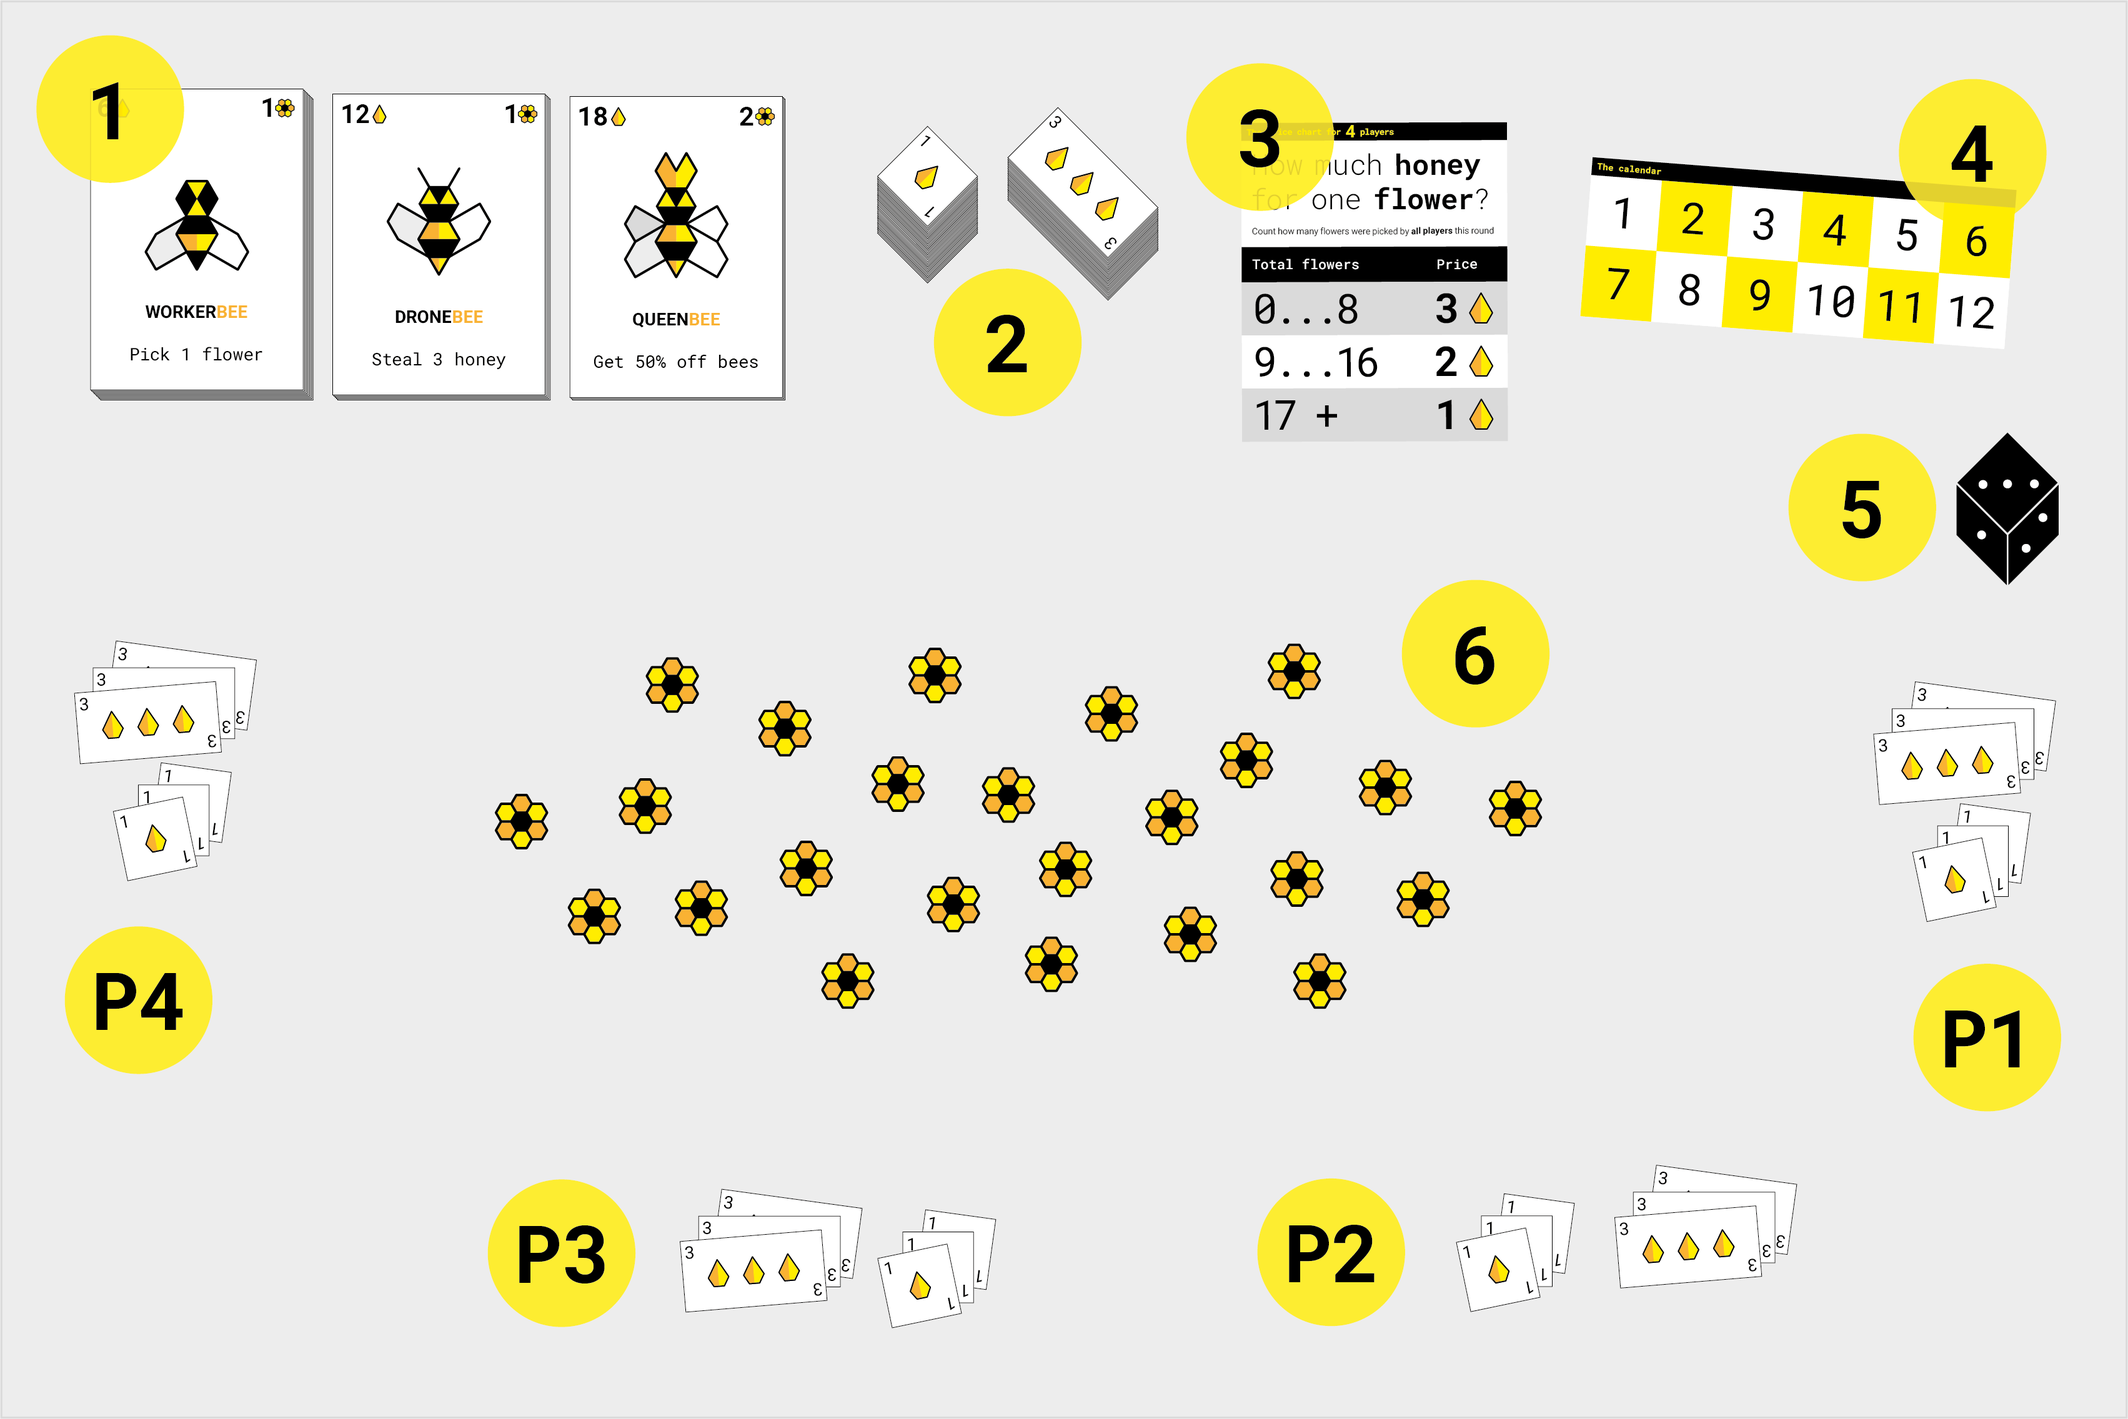
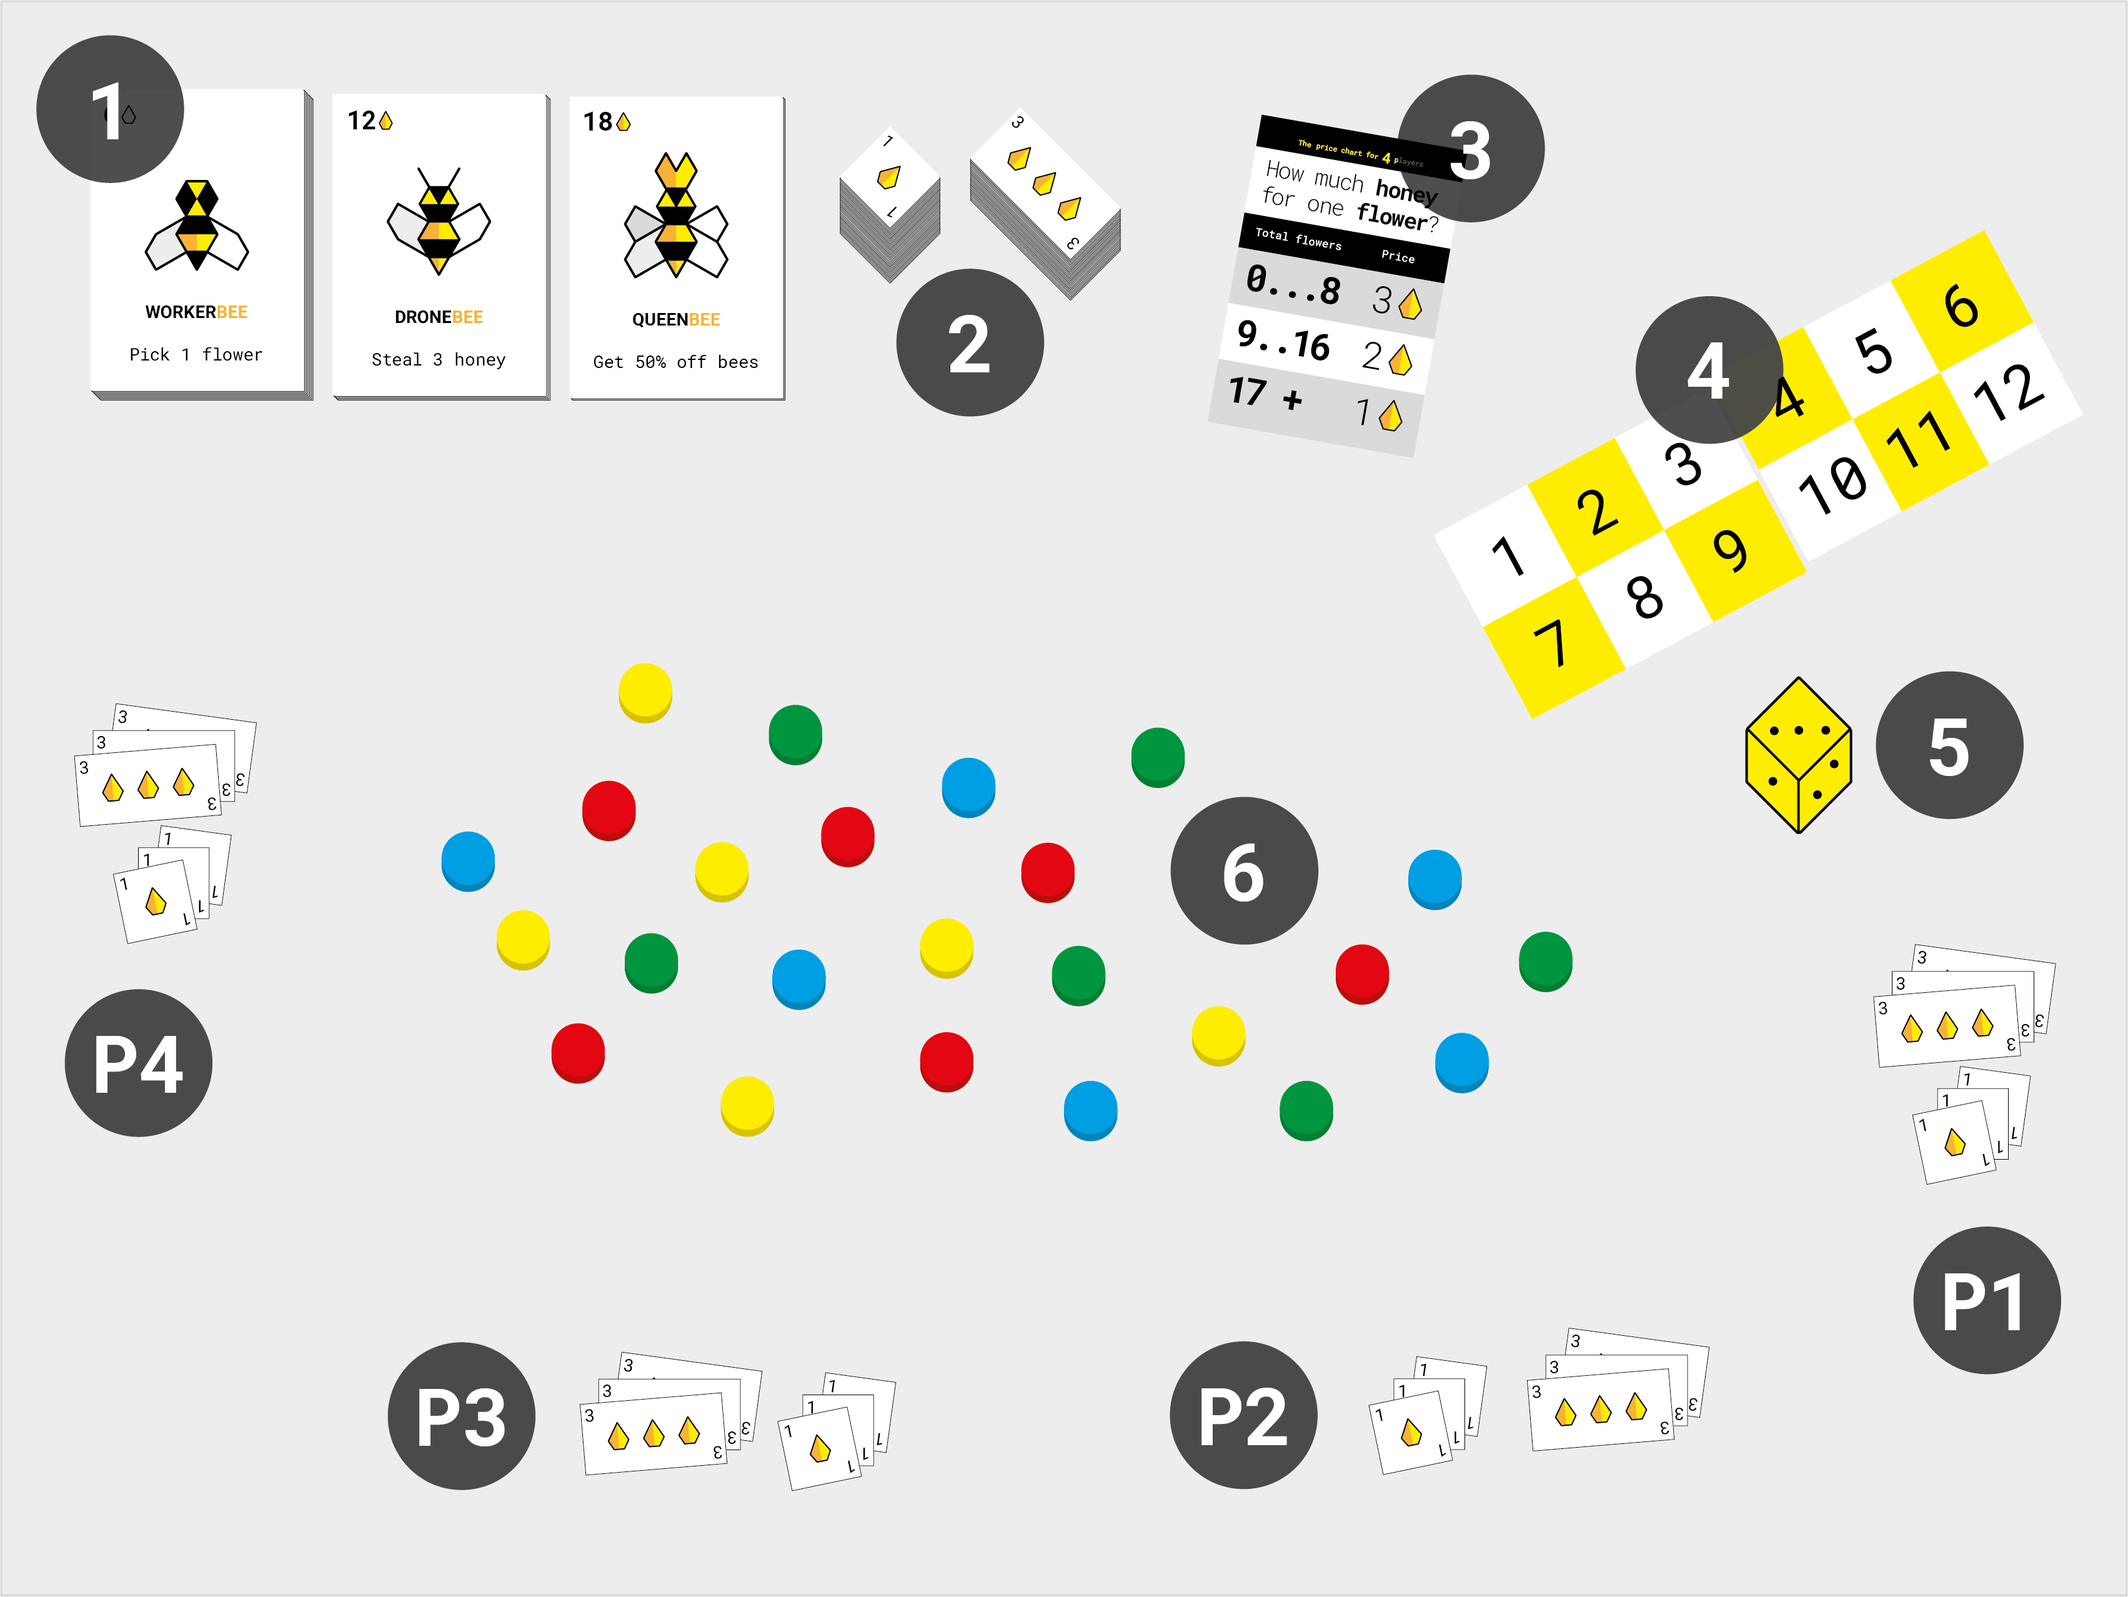
New rulebook

diff --git a/README.md b/README.md
@@ -2,167 +2,152 @@
 
 ![](assets/bees.png)
 
-Beesness is a competitive / cooperative game for 2+ players that simulates a *capitalist market economy*. 
+**Beesness** is a competitive / cooperative game for 2+ players that simulates a *capitalist market economy*. 
 
-As a player you control a **colony of bees**. These peculiar bees have learned how to do *beesness* from us humans: they can *trade* flowers for honey and honey for other bees, they can *extort* honey from other colonies and even employ *cheap labour*. **To win** you must end the year with **more honey** than any other colony. This is the competitive part.
+As a player you control a *beesness*. These peculiar bees have learned how to do business from us humans: they can *trade* flowers for honey and honey for other bees, they can *extort* honey from other beesnesses and even employ *cheap labour*. **To win** you must end the year with **more honey** than any other beesness. This is the **competitive** part.
 
-Every colony operates in the **garden of Commons**. If all flowers are taken from the garden, at any point during the game, **everybody loses** immediately. To avoid this tragedy, you can cooperate with the other colonies to replant flowers.
+Every beesness operates in the **garden of Commons**. If all flowers are taken from the garden, at any point during the game, **everybody loses** immediately. To avoid this tragedy, you can **cooperate** with the other beesnesses to replant flowers.
 
 Will you manage to maximise your honey profits while avoiding *drone strikes* and a collective *beesaster*?
 
 
-## Ingredients
+# How to *beegin* (setup)
 
-* 2+ [human players](#how-many-players)
-* A [table](#the-garden-of-commons) 
-* Flower tokens (roughly 10 for each player)
-* [Honey tokens](#the-honey-pot-bank) 
-* [Bee cards](#meet-the-bees)
-* Flower - honey [price chart](#2-sell-your-flowers-for-honey)
-* Turns tracker (aka the [calendar](#the-calendar)) 
-* A 6-sided die 
+![](assets/setup.png)
 
-### How many players? 
+1. Place the **beesness cards** `1` face up, stacked by bee type.
+2. Put all the **honey** `2` in one pot (or piles). That will be the **bank**. 
 
-From **2** to **infinity**. 
+	Each player starts with **12 honey** plus a **roll of the die** `5`. This could bring your starting capital to 18 honey! :game_die:
+3. Pick the flowers-honey **price chart** `3` corresponding to the number of players and put it next to the honey-pot bank. 
+4. Place the round tracker cards `4` (the **calendar**) next to the price chart and put the die over the first month (1).
+5. *Plant* **6 flower tokens** `6` for each player on the table. It doesn't matter which colour flowers are.
 
-### The garden of Commons
-
-Plant **flowers** in the garden. To start with, place 6 flower tokens for each player on the table.
-
-Players	| Flowers
------- 	| -------
-2       | 12
-3       | 18
-4       | 24
-5       | 30
-6       | 36
-etc.    | The formula: 6 × players
-
-### The honey pot bank 
- 
-Put all the **honey** in one pot (or pile). That will be the **bank**. 
-
-### The colony
-
-Each player starts with an initial capital of **12 honey**. On top of that 12, each player **rolls the die** and gets as much honey as the die says. This could bring your initial capital to 18 honey! :game_die:
-
-### Meet the bees
-
-Place the **bee cards** face up, stacked by bee type.
-
-Type | Price <sup>honey	| Skills
----- | ----------------	| ------
-**Worker** bee <br><br>![](assets/worker-bee.png) | **6** | It can **take 1 flower per month** from the garden. At the end of each round, you trade flowers for honey. 
-**Drone** bee <br><br>![](assets/drone-bee.png) | **12** | It can **take 3 honey per month** from other colonies (in different combinations, eg: 3 honey from 1 colony, 1 honey from 3 different colonies, 2 from 1 colony and 1 from another)
-**Queen** bee <br><br>![](assets/queen.png) | **18** | It can **privatise 1 flower per month**. Privatising means you can keep flowers (instead of trading them) and still get paid. 
-
-### The calendar 
-
-Put a **month marker** (any token) on the first month of the year.
-
-![](assets/calendar.png)
+	> For example: if there are 4 players, plant 24 flowers. 
 
 
-## Method
+# How to *beehave* (gameplay)
 
-### Who starts the round?
+Players take turns, going **clockwise** :arrows_clockwise: around the table.
+
+## Who starts the round?
 
 There are two ways to decide this:
 
-1. By **bidding honey**, aka *beedding*. The highest *beedder* pays the bank and gets the right to execute their *beesness plan* before all other players.
+1. By **bidding honey**, a.k.a. *beedding*. The highest *beedder* pays the bank and gets the right to execute their *beesness plan* before all other players.
 	
 	If you wish, you can *beed* to start at the beginning of every round.
 2. If nobody wants to *beed*, then you will **rotate the starting player**. If you started this round, the player to your left will start the next.
 
-Play proceeds **clockwise**.
+## On your turn
 
-### There are three steps to every round
+At the beginning of your turn you can **buy beesness cards** to grow your beesness. Then you can use your beesness cards to **execute your beesness plan**.
 
-1. One player at a time, you [execute your *beesness plan*](#1-execute-your-beesness-plan)
-2. All together, you [sell your flowers for honey](#2-sell-your-flowers-for-honey)
-3. All together, you [replant the garden](#3-replant-the-garden)
+1. **Buy beesness cards**! 
 
-### 1. Execute your beesness plan!
+	If you want and can afford their price, you *can* buy one or more beesness cards. 
+	
+	Pay the bank the price for each card in honey and add the card(s) to your beesness. 
+	
+	Bear in mind that you are not allowed to make your bees *redundant*, i.e. sell them back to the bank. You can trade beesness cards with other players though. See if anyone is interested in your bees and negotiate a price.
+2. **Execute your beesness plan**!  
 
-#### Invest
+	Every beesness card has a skill. Use as many of your cards as you like. 
 
-If you have honey, you can decide to invest some (or all) of it to **grow your colony**. 
+	You can deploy newly acquired bees immediately, there's no need to wait for the next round.
 
-You can buy as many bee cards as you can afford. 
+<!--
+	> For example <br><br>
+	> If you have 2 ***workers***, you can pick 2 flowers from the garden. <br><br>
+	> If you have 1 ***drone***, you can steal up to 3 honey from other beesnesses (in any combination, either 3 from the same beesness, or 1 from 3 different beesnesses, 2 + 1, etc.). <br><br>
+	> If you want to deploy ***drones*** against another player but they have less honey than you could take, you can force them to use one or more of their beesnesses cards as *payment* (eg: put a *worker bee* back to the stack, get 6 honey from the bank and pay you). <br><br>
+	> If you use **drones** to pillage another beesness, you have to wait for your next turn to invest the loot. <br><br>	
+	> If you have a **queen**, you can buy other beesness cards at half their normal price. 
+-->
 
-Pay the bank and add the card(s) to your colony.  
+## At the end of a round
 
-#### Deploy
+When all players have executed their *beesness plans*, the bank opens the **stalk exchange** and you have 1 minute to trade your flowers (as many as you want) for honey. Then you **replant the garden** and move to the next round.
 
-Deploy as many of your cards as you wish. 
+1. **Trade flowers on the stalk exchange**!
 
-You can deploy newly acquired bees immediately (no need to wait for the next round).
+	The maximum you can get for 1 flower is 3 honey, when only a few flowers are traded. The more flowers on the market, the less they are worth (a.k.a. [*supply&demand*](https://en.wikipedia.org/wiki/Supply_and_demand)).
+	
+	You have 1 minute to decide how many flowers to put on the stalk exchange. Everybody does this at the same time. 
+	
+	Put as many flowers as you want to trade (from none to all) in your hand. Without revealing them, place your close fist at the centre of the table. When everyone is ready, open your hands to show how many flowers you are trading.
 
-> For example <br><br>
-> If you have 2 ***workers***, you can take 2 flowers. <br><br>
-> If you have 1 ***drone***, you can take 3 honey from another colony. <br><br>
-> If you want to deploy ***drones*** against another player but they have less honey than you could take, you can force them to use one or more of their bee cards as *payment* (eg: put a *worker bee* back to the stack, get 6 honey from the bank and pay you). <br><br>
-> If you use **drones** to pillage another colony, you have to wait for your next turn to invest the loot. <br><br>	
-> If you have a **queen**, you can **privatise** (keep) one of the flowers taken by your workers. From the next month, this privatised flower will generate more honey for you at its current market value. 
-
-#### Can I sell bees?
-
-You are not allowed to make bees *redundant*, i.e. selling them back to the bank.
-
-You can **trade bees with other players** though. See if anyone is interested in your bees and negotiate a price.
-
-### 2. Sell your flowers for honey!
-
-After all players have executed their *beesness plans*, you can trade your flowers for honey.
-
-The maximum you can get for a flower is 3 honey, when only a few flowers have been taken from the garden. The more flowers, the less they are valued on the market (aka [*supply&demand*](https://en.wikipedia.org/wiki/Supply_and_demand)).
-
-To determine the **price of one flower** for this *month*, count **how many flowers have been taken from the garden by all players** this round and check the *price chart* corresponding to the number of players.
+	Check the **price chart** to determine the **price of one flower**.
  
-Each player gets paid in honey, from the bank, for the flowers they took this month. 
+	You get paid in honey, from the bank, for the flowers you are trading. 
 	
-> For example <br><br>If you took 2 flowers and their individual value is 3, then you'll get 6 honey from the bank.
-	
-Your flowers are now sold. Discard them. 
+	> For example, if you are trading 2 flowers and their individual price is 3 honey, you get 6 honey from the bank.
 
-#### Privatise
+	Your flowers are now sold. Discard them.
 
-If you have a *queen*, you can **keep one flower per month and still get paid for it**. From the next month, this privatised flower will generate more honey for you at its current market value.
+2. **Replant the garden!**
 
-Privatised flowers don't count when working out the flowers' price at the end of a round. 
+	Replant **one flower per player**. Then **roll the die** and replant as many flowers as the die says. :game_die:
 
-> For example <br><br>You have taken 2 flowers from the garden this round and you have 1 privatised flower from the previous round. Only flowers taken from the garden count to determine the price per flower, so you count for 2. Let's say 10 flowers were taken from the garden this round and there are 4 players, so each flower is worth 2 honey. You will get 4 honey for the flowers you took, plus 2 for the privatised one: 6 honey in total. 
+	> For example: if there are 4 players, add 4 flowers to the *garden*. Then roll the die: it's a 2, so you add another 2 flowers.
+3. Move the month marker to the next space on the calendar to keep track of the rounds.
 
-### 3. Replant the garden!
+# Meet the bees
 
-At the end of the round, **replant one flower per player**. Then **roll the die** and replant as many flowers as the die says. :game_die:
+Type | Price <sup>honey	| Skills
+---- | ----------------	| ------
+**Worker** bee <br><br>![](assets/worker-bee.png) | **6** | It can **take 1 flower per month** from the garden. At the end of each round, you can trade flowers for honey. 
+**Drone** bee <br><br>![](assets/drone-bee.png) | **12** | It can **take up to 3 honey per month** from other beesnesses (in different combinations, eg: 3 honey from 1 beesness, 1 honey from 3 different beesnesses, 2 from 1 beesness and 1 from another, etc.)
+**Queen** bee <br><br>![](assets/queen.png) | **18** | It can you can **buy other beesness cards at half their normal price**. 
 
-> For example <br><br>If there are 4 players, add 4 flowers to the *garden*. Then roll the die: it's a 2, so you add another 2 flowers.
+### Anatomy of a beesness card
 
-#### If flowers are running out... 
+![](assets/anatomy.png)
 
-Remember, **if the garden runs out of flowers, everybody loses.**
 
-All together, you can decide to **give back** one or more of your bee cards in order to replenish the garden. 
+# How to win
 
-Each *worker* and *drone* bee can get you 1 flower. The *queen* is worth 2 flowers.
-
-You don't all have to give back the same number or type of cards. For example, one player may decide to give back 1 bee, and another player 3 bees. Discuss and try to reach a consensus. 
-
-#### End of the month
-
-Move the month marker to the next space on the calendar to keep track of the rounds.
-
-### End of the game
-
-The game ends at the end of the last month. 
+The game ends at the end of the last month (12). 
 
 **The player with the most honey wins!**
 
-#### Does my bees arsenal count at the end of the game?
+#### Do my bees count at the end of the game?
 
-No. It's just the honey you have (that is, your *profits*) and not the overall valuation of your colony. 
+No. It's just the honey you have (that is, your *profits*) and not the overall *valuation* of your beesness. 
+
+
+# How not to lose
+
+**If the garden runs out of flowers, everybody loses immediately.**
+
+To avoid this *beesaster*, you can decide all together to **give back** one or more of your beesness cards in order to replenish the garden. 
+
+Each beesness card can get you 1 flower. 
+
+You don't all have to give back the same number or type of cards. For example, one player may decide to give back 1 bee, and another player 3 bees. Discuss and try to reach a consensus. 
+
+Put the cards you are sacrificing onto their stack next to the bank and replant the garden with the corresponding number of flowers.
+
+
+# Sticky situations (FAQs)   
+
+1. **Can I sell bees?**
+
+	**No**. You are not allowed to make bees *redundant*, i.e. selling them back to the bank. You can however **trade bees with other players**: see if anyone is interested in your bees and negotiate a price.
+2. **Do my bees count at the end of the game?**
+
+	No. It's just the honey you have (that is, your *profits*) and not the overall *valuation* of your beesness. 
+3. **Can I make alliances with other players?**
+
+	Sure, why not? The terms of your trade agreements are up to you. 
+4. **What if I use my drone(s) against a beesness that has not enough honey?**
+
+	You can force them to use one or more of their beesnesses cards as *payment* (eg: put a *worker bee* back to the stack, get 6 honey from the bank and pay you).
+5. **Can I use a drone and buy more beesness cards with the loot?**
+
+	Not during the same turn. You'll have to wait your next turn to invest your loot into new beesness cards.
+
+
 
 
 ### License
